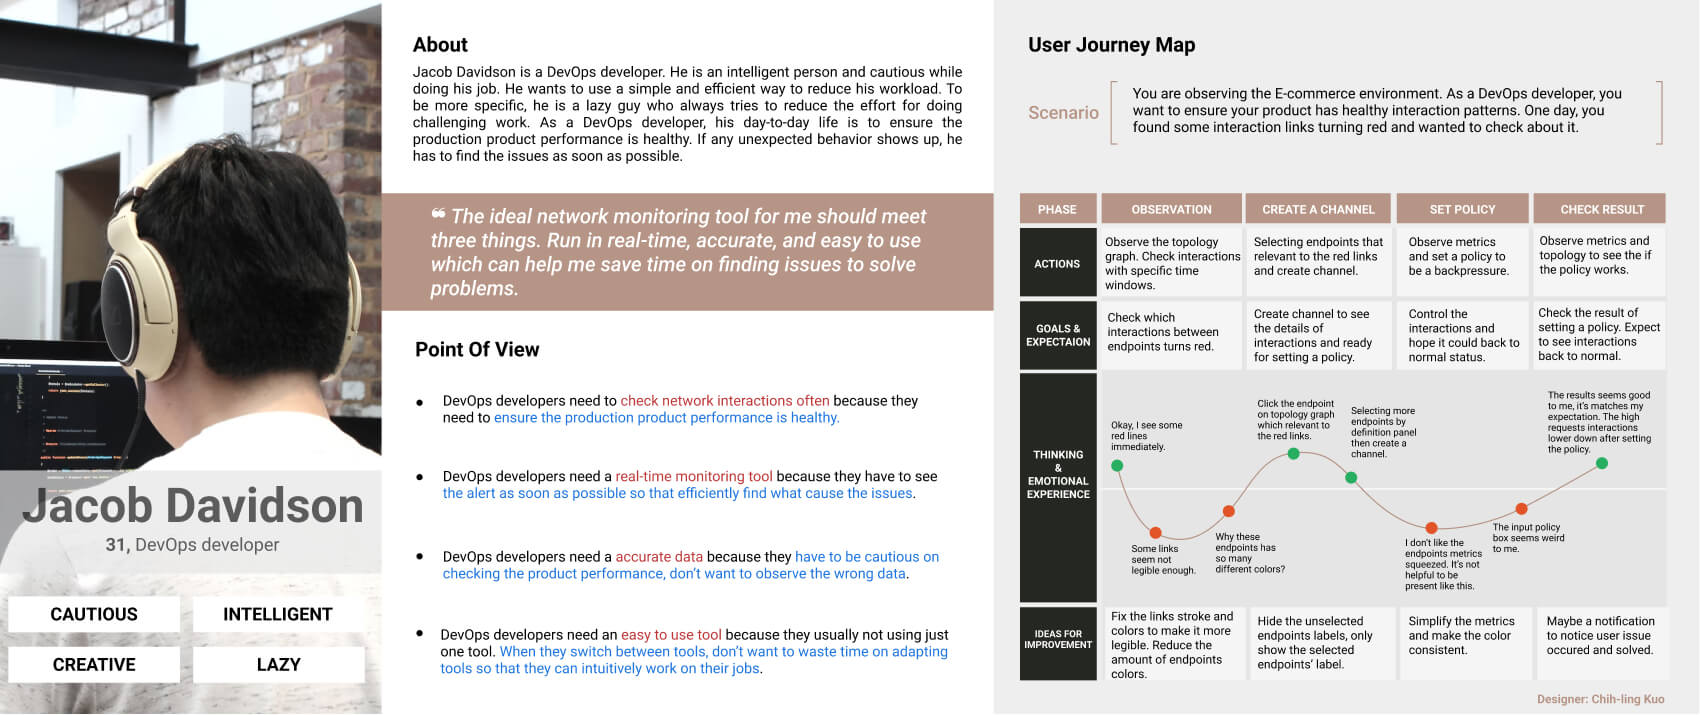
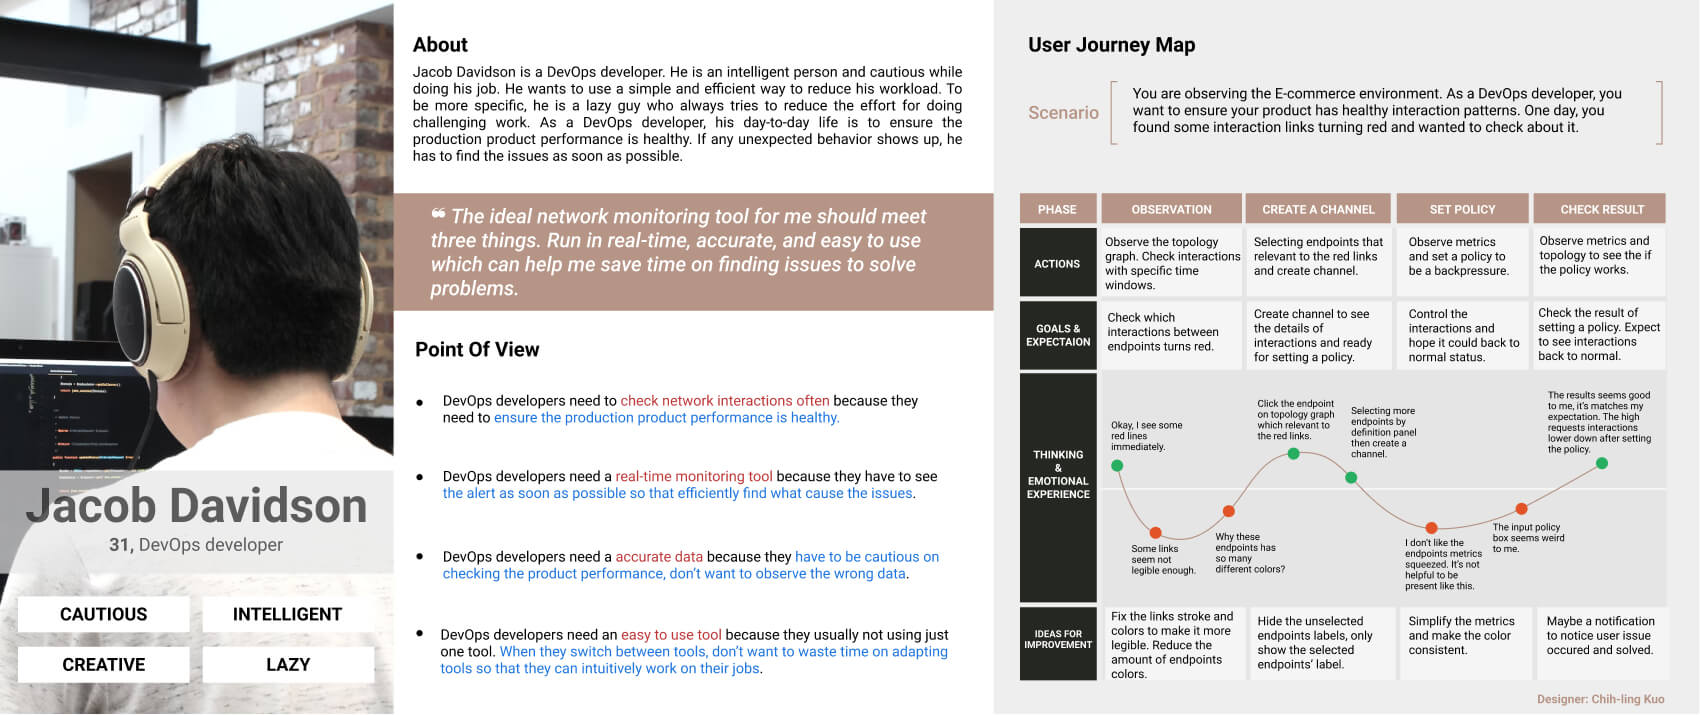
Add personas

Changed region(s): [[0.0, 0.0, 0.2494, 1.0], [0.1559, 0.9231, 0.2494, 1.0], [0.0, 0.0923, 0.0624, 0.1231]]

diff --git a/Glasnostic-console/index.html b/Glasnostic-console/index.html
@@ -260,7 +260,9 @@
                     </h6>
                 </div>
                 <div class="col-md-12 wow fadeIn" data-wow-delay="0.1s">
-                    <img src="img/Persona-DevOps.jpg" alt="Discover 2018 old versions issues">
+                    <img src="img/Persona-DevOps.jpg" alt="Persona-1">
+                    <br><br>
+                    <img src="img/Persona-DevOps-2.jpg" alt="Persona-2">
                 </div>
                 <div class="col-md-12"><br>
                     <hr class="style1">
